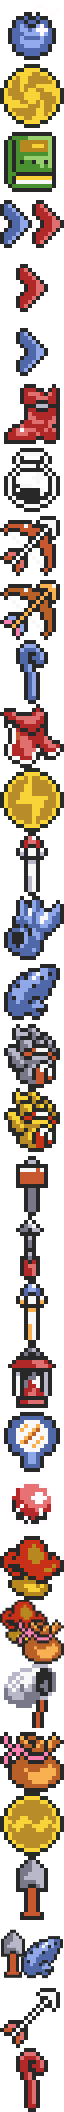
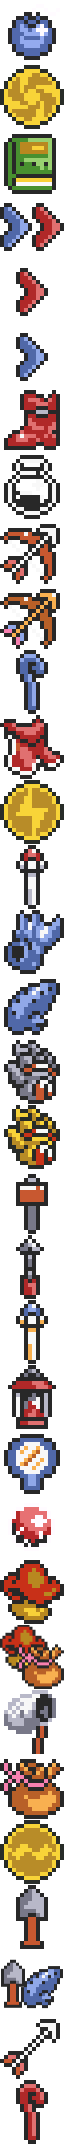
Update item pretty with extra border

diff --git a/css/item_pretty.css b/css/item_pretty.css
@@ -6,135 +6,135 @@
   background-image: url('../img/item_pretty.png');
 }
 
-.bomb {
+.item-pretty.bomb {
   background-position: 0 0%;
   background-size: 100%;
 }
-.bombos {
+.item-pretty.bombos {
   background-position: 0 3.125%;
   background-size: 100%;
 }
-.book {
+.item-pretty.book {
   background-position: 0 6.25%;
   background-size: 100%;
 }
-.boomerang-both {
+.item-pretty.boomerang-both {
   background-position: 0 9.375%;
   background-size: 100%;
 }
-.boomerang-red {
+.item-pretty.boomerang-red {
   background-position: 0 12.5%;
   background-size: 100%;
 }
-.boomerang {
+.item-pretty.boomerang {
   background-position: 0 15.625%;
   background-size: 100%;
 }
-.boots {
+.item-pretty.boots {
   background-position: 0 18.75%;
   background-size: 100%;
 }
-.bottle {
+.item-pretty.bottle {
   background-position: 0 21.875%;
   background-size: 100%;
 }
-.bow-silverarrows {
+.item-pretty.bow-silverarrows {
   background-position: 0 25%;
   background-size: 100%;
 }
-.bow {
+.item-pretty.bow {
   background-position: 0 28.125%;
   background-size: 100%;
 }
-.byrna {
+.item-pretty.byrna {
   background-position: 0 31.25%;
   background-size: 100%;
 }
-.cape {
+.item-pretty.cape {
   background-position: 0 34.375%;
   background-size: 100%;
 }
-.ether {
+.item-pretty.ether {
   background-position: 0 37.5%;
   background-size: 100%;
 }
-.firerod {
+.item-pretty.firerod {
   background-position: 0 40.625%;
   background-size: 100%;
 }
-.flippers {
+.item-pretty.flippers {
   background-position: 0 43.75%;
   background-size: 100%;
 }
-.flute {
+.item-pretty.flute {
   background-position: 0 46.875%;
   background-size: 100%;
 }
-.glove {
+.item-pretty.glove {
   background-position: 0 50%;
   background-size: 100%;
 }
-.glove2 {
+.item-pretty.glove2 {
   background-position: 0 53.125%;
   background-size: 100%;
 }
-.hammer {
+.item-pretty.hammer {
   background-position: 0 56.25%;
   background-size: 100%;
 }
-.hookshot {
+.item-pretty.hookshot {
   background-position: 0 59.375%;
   background-size: 100%;
 }
-.icerod {
+.item-pretty.icerod {
   background-position: 0 62.5%;
   background-size: 100%;
 }
-.lantern {
+.item-pretty.lantern {
   background-position: 0 65.625%;
   background-size: 100%;
 }
-.mirror {
+.item-pretty.mirror {
   background-position: 0 68.75%;
   background-size: 100%;
 }
-.moonpearl {
+.item-pretty.moonpearl {
   background-position: 0 71.875%;
   background-size: 100%;
 }
-.mushroom {
+.item-pretty.mushroom {
   background-position: 0 75%;
   background-size: 100%;
 }
-.mushroom-powder {
+.item-pretty.mushroom-powder {
   background-position: 0 78.125%;
   background-size: 100%;
 }
-.net {
+.item-pretty.net {
   background-position: 0 81.25%;
   background-size: 100%;
 }
-.powder {
+.item-pretty.powder {
   background-position: 0 84.375%;
   background-size: 100%;
 }
-.quake {
+.item-pretty.quake {
   background-position: 0 87.5%;
   background-size: 100%;
 }
-.shovel {
+.item-pretty.shovel {
   background-position: 0 90.625%;
   background-size: 100%;
 }
-.shovel-flute {
+.item-pretty.shovel-flute {
   background-position: 0 93.75%;
   background-size: 100%;
 }
-.silverarrows {
+.item-pretty.silverarrows {
   background-position: 0 96.875%;
   background-size: 100%;
 }
-.somaria {
+.item-pretty.somaria {
   background-position: 0 100%;
   background-size: 100%;
 }
